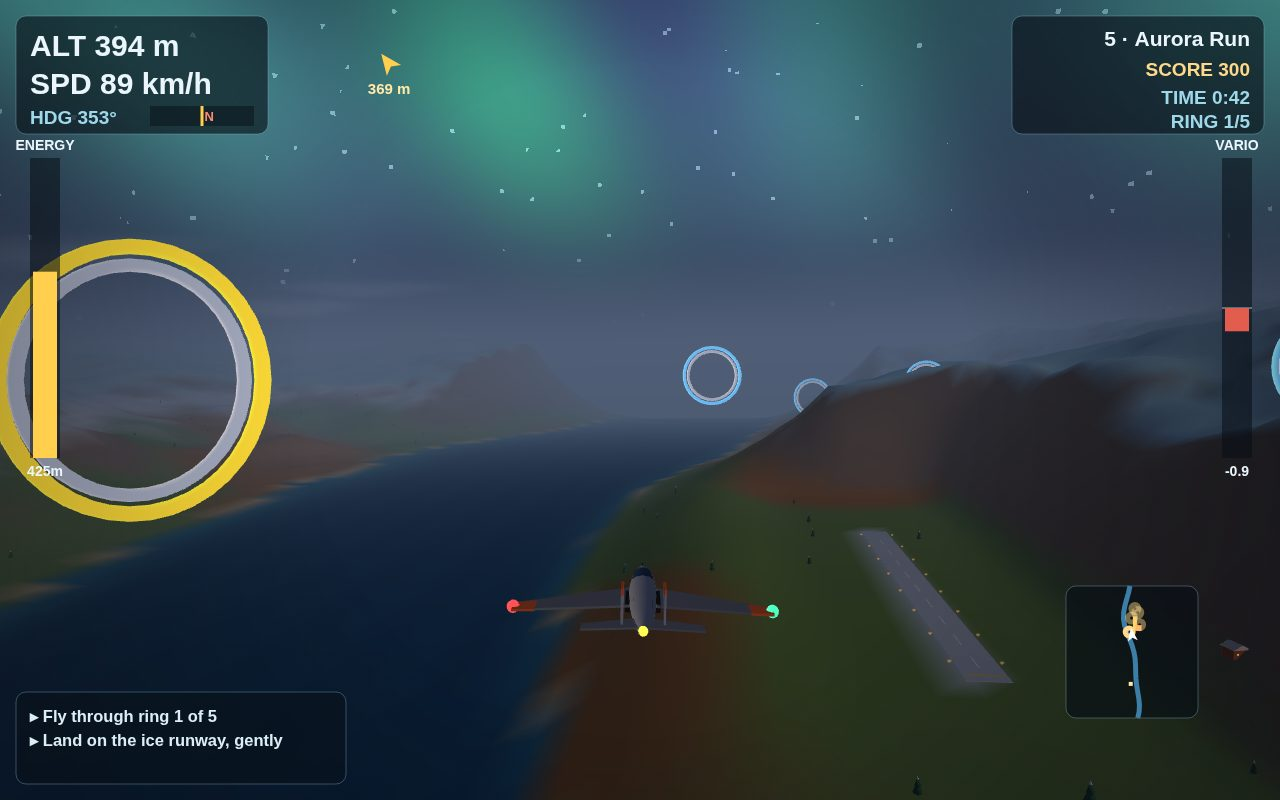
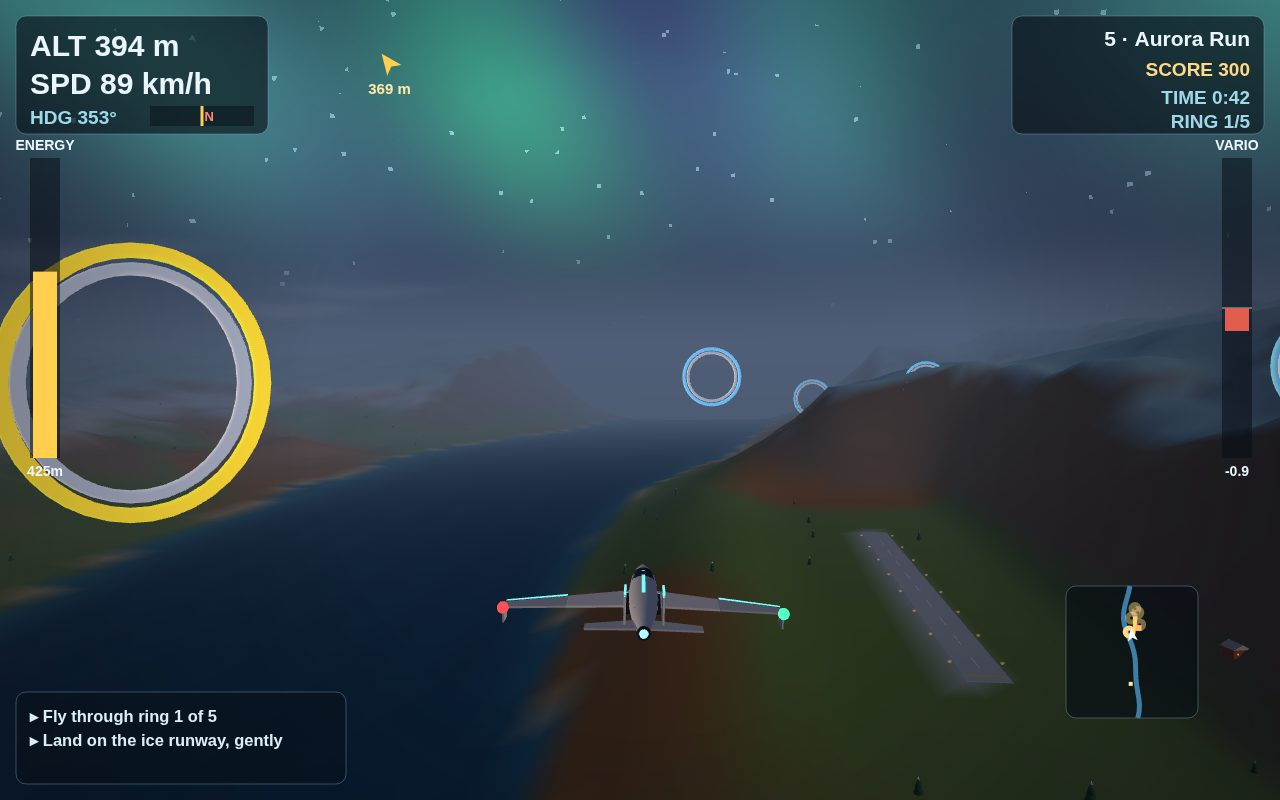
Aircraft reskin: sci-fi jet, the user's pick from the concept sheet
White angular fuselage on a 16-segment lathe, two-panel kinked swept
wings, downward winglets, twin fins, dark intakes, and cyan light
strips (wing leading edges, spine, intake rims, fin tips) plus a
glowing cyan engine core that reads beautifully at aurora night.

diff --git a/game/src/renderWorld.js b/game/src/renderWorld.js
@@ -407,56 +407,71 @@ export function createRenderer(glCanvas, fxCanvas) {
   const discMesh = uploadGeometry(buildRingGeometry(0.02, 1, 40));
   const ringBandMesh = uploadGeometry(buildRingGeometry(0.93, 1, 40));
 
-  // The aircraft as a small scale model — a mini jet-fighter silhouette:
-  // long pointed nose with a pitot spike, swept wings with orange tips,
-  // twin tail fins, side intakes, a teardrop glass canopy and a glowing
-  // tail cone. Pure looks: the physics underneath is still the same
-  // engineless energy model.
+  // The aircraft as a small scale model — the sci-fi jet the user picked
+  // from the concept sheet: white angular fuselage, two-panel swept wings,
+  // downward winglets, twin fins, and cyan light strips along the wing
+  // leading edges, spine and intakes, with a glowing cyan engine core.
+  // Pure looks: the physics underneath is still the same engineless
+  // energy model.
   const gliderBody = new MeshBuilder();
   {
-    const steel = [0.6, 0.64, 0.7];
-    const steelDark = [0.42, 0.46, 0.52];
-    const orange = [0.93, 0.38, 0.19];
-    const dark = [0.1, 0.11, 0.13];
+    const white = [0.92, 0.94, 0.96];
+    const grey = [0.78, 0.82, 0.86];
+    const dark = [0.12, 0.14, 0.17];
     gliderBody.lathe([
-      [-4.6, 0.02], [-4.2, 0.16], [-3.4, 0.34], [-2.4, 0.5], [-1.4, 0.58],
-      [-0.2, 0.6], [1.0, 0.55], [2.2, 0.44], [3.2, 0.3], [3.7, 0.17],
-    ], 12, steel, 0.35);
-    gliderBody.box(0, 0, -4.85, 0.045, 0.045, 0.5, dark, 0.2); // pitot spike
-    // Swept main wings, steel with orange tip panels.
-    gliderBody.wing(0.3, 5.2, -0.05, -1.5, 0.85, 2.4, 0.8, 0.09, steelDark, 0.16);
-    gliderBody.wing(-0.3, -5.2, -0.05, -1.5, 0.85, 2.4, 0.8, 0.09, steelDark, 0.16);
-    gliderBody.wing(4.3, 5.2, -0.05, 0.55, 0.85, 1.05, 0.8, 0.095, orange, 0.16);
-    gliderBody.wing(-4.3, -5.2, -0.05, 0.55, 0.85, 1.05, 0.8, 0.095, orange, 0.16);
+      [-4.8, 0.02], [-4.3, 0.18], [-3.4, 0.38], [-2.4, 0.52], [-1.2, 0.6],
+      [0.2, 0.62], [1.4, 0.56], [2.6, 0.44], [3.4, 0.3], [3.8, 0.22],
+    ], 16, white, 0.4);
+    // Engine nozzle.
+    gliderBody.lathe([[3.8, 0.22], [3.95, 0.27], [4.08, 0.2]], 12, dark, 0.2);
+    // Two-panel swept wings: white inner, grey outer, kinked like the art.
+    gliderBody.wing(0.25, 3.1, -0.08, -1.15, -0.15, 2.0, 1.25, 0.09, white, 0.2);
+    gliderBody.wing(-0.25, -3.1, -0.08, -1.15, -0.15, 2.0, 1.25, 0.09, white, 0.2);
+    gliderBody.wing(3.1, 5.6, -0.08, -0.15, 0.75, 1.25, 0.6, 0.08, grey, 0.2);
+    gliderBody.wing(-3.1, -5.6, -0.08, -0.15, 0.75, 1.25, 0.6, 0.08, grey, 0.2);
+    // Downward winglets at the tips.
+    gliderBody.box(5.58, -0.38, 1.02, 0.07, 0.62, 0.68, grey, 0.16);
+    gliderBody.box(-5.58, -0.38, 1.02, 0.07, 0.62, 0.68, grey, 0.16);
     // Side intakes.
-    gliderBody.box(0.55, -0.12, 0.1, 0.34, 0.42, 1.5, dark, 0.1);
-    gliderBody.box(-0.55, -0.12, 0.1, 0.34, 0.42, 1.5, dark, 0.1);
-    // Swept tailplanes and twin fins with orange tips.
-    gliderBody.wing(0.15, 2.3, 0.05, 2.6, 3.3, 1.0, 0.55, 0.07, steelDark, 0.14);
-    gliderBody.wing(-0.15, -2.3, 0.05, 2.6, 3.3, 1.0, 0.55, 0.07, steelDark, 0.14);
-    gliderBody.box(0.8, 0.75, 3.1, 0.09, 1.15, 0.95, steel, 0.14);
-    gliderBody.box(-0.8, 0.75, 3.1, 0.09, 1.15, 0.95, steel, 0.14);
-    gliderBody.box(0.8, 1.38, 3.1, 0.1, 0.24, 0.95, orange, 0.14);
-    gliderBody.box(-0.8, 1.38, 3.1, 0.1, 0.24, 0.95, orange, 0.14);
+    gliderBody.box(0.52, -0.15, 0.3, 0.36, 0.4, 1.4, dark, 0.12);
+    gliderBody.box(-0.52, -0.15, 0.3, 0.36, 0.4, 1.4, dark, 0.12);
+    // Swept tailplanes and twin fins.
+    gliderBody.wing(0.12, 2.2, 0.02, 2.7, 3.25, 0.95, 0.5, 0.07, grey, 0.16);
+    gliderBody.wing(-0.12, -2.2, 0.02, 2.7, 3.25, 0.95, 0.5, 0.07, grey, 0.16);
+    gliderBody.box(0.72, 0.72, 3.15, 0.08, 1.1, 0.9, white, 0.16);
+    gliderBody.box(-0.72, 0.72, 3.15, 0.08, 1.1, 0.9, white, 0.16);
   }
   const gliderMesh = uploadGeometry(gliderBody.build());
   const canopy = new MeshBuilder();
-  canopy.sphere(0, 0.32, -2.15, 0.42, [0.13, 0.27, 0.4], 1.0, 0.78);
-  canopy.sphere(0, 0.3, -1.55, 0.47, [0.13, 0.27, 0.4], 1.0, 0.78);
+  canopy.sphere(0, 0.34, -2.0, 0.44, [0.1, 0.2, 0.3], 1.0, 0.76);
+  canopy.sphere(0, 0.32, -1.4, 0.48, [0.1, 0.2, 0.3], 1.0, 0.76);
   const canopyMesh = uploadGeometry(canopy.build());
+  // Cyan light strips: wing leading edges, spine and intake rims.
+  const accents = new MeshBuilder();
+  {
+    const cyan = [0.25, 0.85, 1.0];
+    accents.wing(3.15, 5.55, 0.03, -0.12, 0.72, 0.17, 0.13, 0.02, cyan, 0);
+    accents.wing(-3.15, -5.55, 0.03, -0.12, 0.72, 0.17, 0.13, 0.02, cyan, 0);
+    accents.box(0, 0.6, -0.5, 0.15, 0.05, 3.2, cyan, 0);
+    accents.box(0.52, -0.15, -0.42, 0.38, 0.42, 0.05, cyan, 0);
+    accents.box(-0.52, -0.15, -0.42, 0.38, 0.42, 0.05, cyan, 0);
+    accents.box(0.72, 1.3, 3.15, 0.09, 0.2, 0.9, cyan, 0);
+    accents.box(-0.72, 1.3, 3.15, 0.09, 0.2, 0.9, cyan, 0);
+  }
+  const accentsMesh = uploadGeometry(accents.build());
   const brakes = new MeshBuilder();
-  brakes.box(2.6, 0.12, 0.2, 1.3, 0.26, 0.6, [0.55, 0.19, 0.11], 0.1);
-  brakes.box(-2.6, 0.12, 0.2, 1.3, 0.26, 0.6, [0.55, 0.19, 0.11], 0.1);
+  brakes.box(2.2, 0.1, 0.1, 1.3, 0.26, 0.6, [0.3, 0.34, 0.4], 0.1);
+  brakes.box(-2.2, 0.1, 0.1, 1.3, 0.26, 0.6, [0.3, 0.34, 0.4], 0.1);
   const brakesMesh = uploadGeometry(brakes.build());
   const navLights = new MeshBuilder();
-  navLights.sphere(-5.2, -0.05, 1.2, 0.26, [1, 0.2, 0.2], 0);
-  navLights.sphere(5.2, -0.05, 1.2, 0.26, [0.2, 1, 0.45], 0);
+  navLights.sphere(-5.6, -0.08, 1.35, 0.24, [1, 0.2, 0.2], 0);
+  navLights.sphere(5.6, -0.08, 1.35, 0.24, [0.2, 1, 0.45], 0);
   const navLightsMesh = uploadGeometry(navLights.build());
   const strobe = new MeshBuilder();
-  strobe.sphere(0, 0.2, 3.7, 0.24, [1, 1, 1], 0);
+  strobe.sphere(0, 0.15, 3.9, 0.22, [1, 1, 1], 0);
   const strobeMesh = uploadGeometry(strobe.build());
   const burner = new MeshBuilder();
-  burner.sphere(0, 0, 3.74, 0.19, [1, 0.55, 0.15], 0);
+  burner.sphere(0, 0, 4.02, 0.17, [0.3, 0.85, 1.0], 0);
   const burnerMesh = uploadGeometry(burner.build());
 
   // ---------- Sprites: clouds and runway edge lights ----------
@@ -798,7 +813,8 @@ export function createRenderer(glCanvas, fxCanvas) {
       drawMesh(gliderMesh, mvp, gm);
       drawMesh(canopyMesh, mvp, gm);
       if (glider.airbrake) drawMesh(brakesMesh, mvp, gm);
-      drawMesh(burnerMesh, mvp, gm, { emissive: 1.8 });
+      drawMesh(accentsMesh, mvp, gm, { emissive: 1.5 });
+      drawMesh(burnerMesh, mvp, gm, { emissive: 2.0 });
       drawMesh(navLightsMesh, mvp, gm, { emissive: 1.3 });
       if (Math.sin(time * 2.4) > 0.72) drawMesh(strobeMesh, mvp, gm, { emissive: 1.6 });
     }
